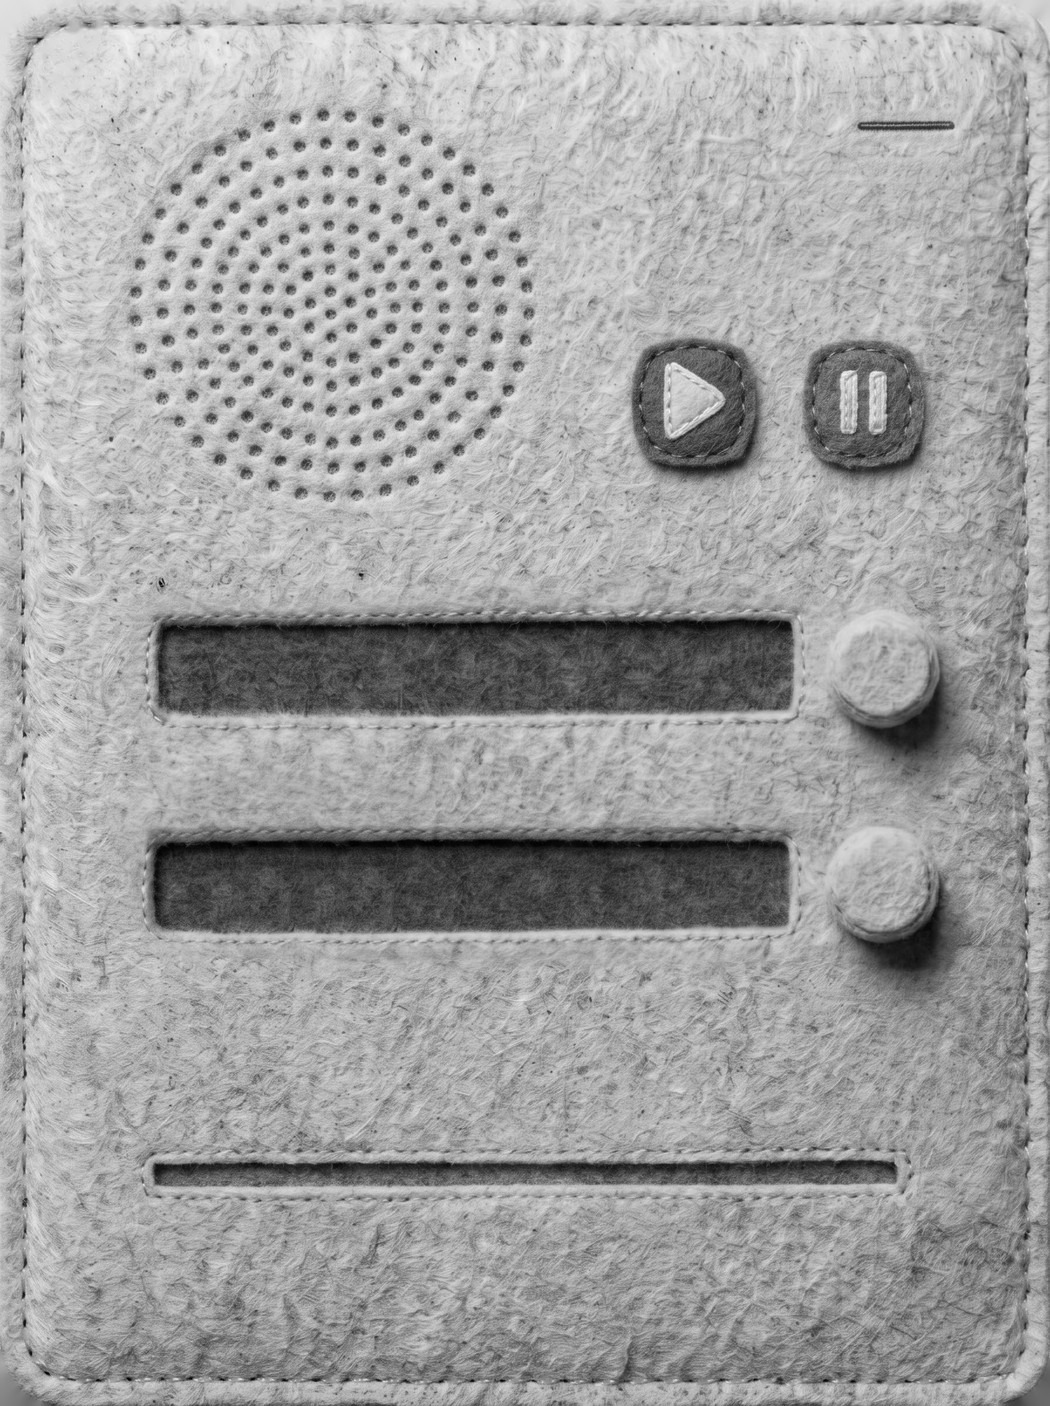
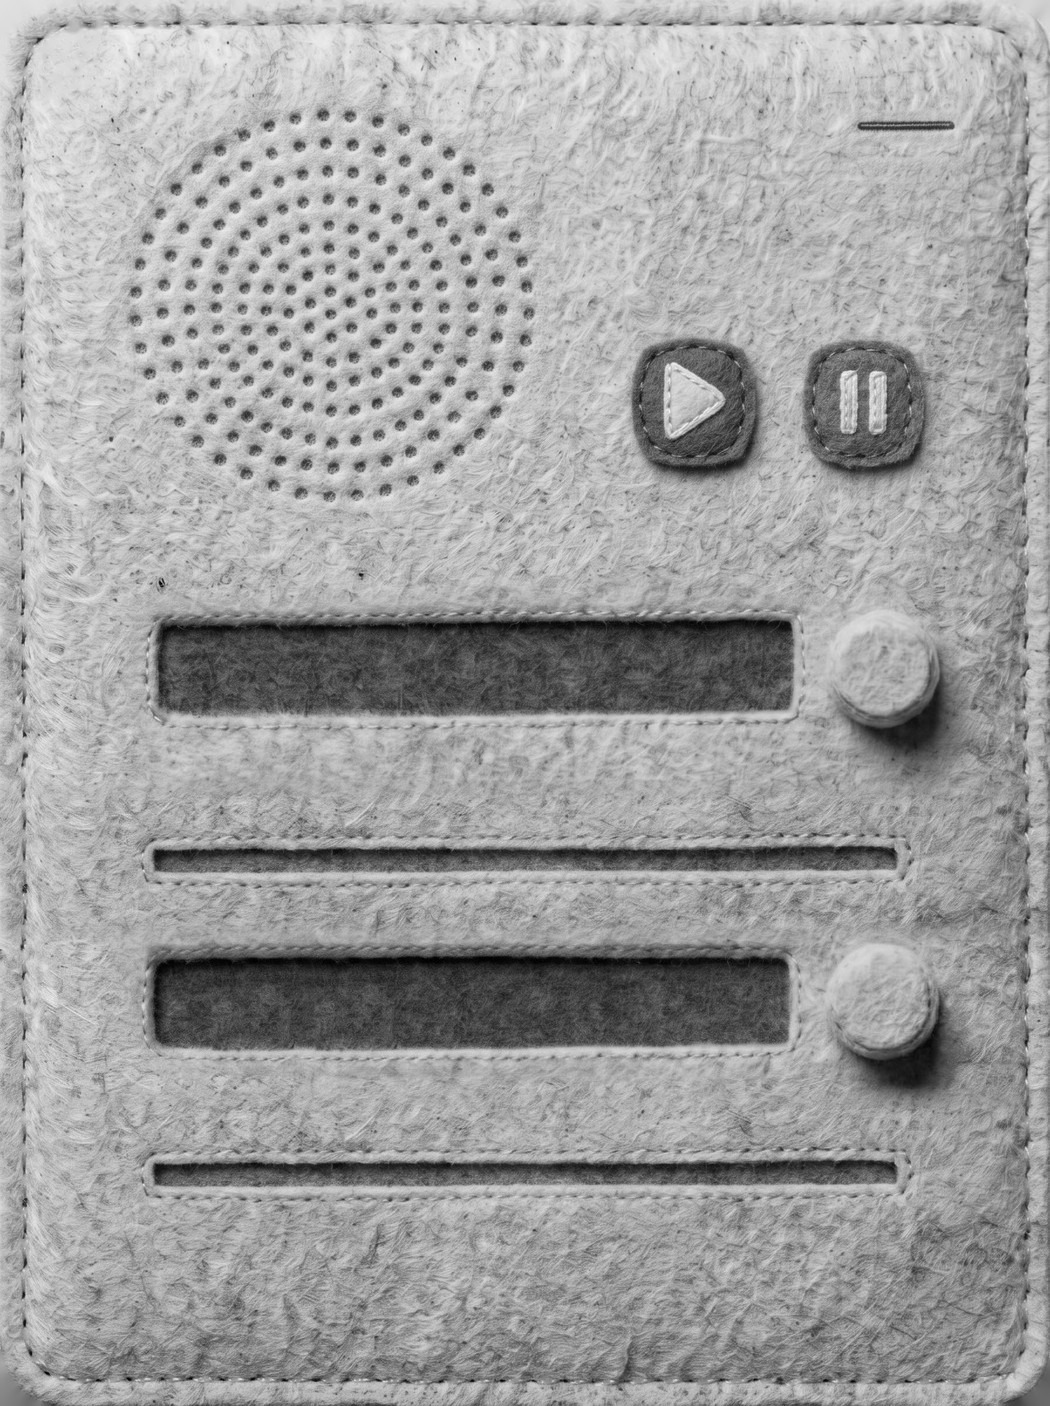
Audio Player: the sound gets its own volume slider under it; the music window and knob move down
Both felt pictures (day and night) rearranged; the sound channel has its own volume
(it follows the music's until its slider is moved).

Claude-Session: https://claude.ai/code/session_01NDsvQ4w6b4M39K7iEhCswz

Changed region(s): [[0.0, 0.5505, 1.0, 0.7952]]

diff --git a/src/components/TapePlayer.js b/src/components/TapePlayer.js
@@ -5,13 +5,14 @@
 //   the two windows: the sound (top) and the music (bottom); tap a knob to click through the choices, which
 //     show in white in the window ("Select sound" / "Select music" until one is chosen). The knobs stay still;
 //     only the line on each face turns a notch per click.
-//   the slider at the bottom: the volume (drag its felt knob, or tap the slot)
+//   two sliders: under the sound, the sound's volume; at the bottom, the music's (drag the felt knob, or tap the slot)
+//   (Jörg, 26 Oct 2026: the music window and knob moved down to make room for the sound's own slider)
 //   the felt line at the top right: closes the player (its only way out)
 // (recording your voice is on the reading bar's red button)
 import React, { useEffect, useRef, useState } from 'react';
 import { Animated, Image, PanResponder, Pressable, StyleSheet, Text, View, useWindowDimensions } from 'react-native';
 import { fonts } from '../theme';
-import { MUSIC, SOUNDS, TRACKS, getAmbient, onAmbient, pauseAmbient, playAmbient, setAmbientPlayer, setAmbientVolume, stepAmbient } from '../ambient';
+import { MUSIC, SOUNDS, TRACKS, getAmbient, onAmbient, pauseAmbient, playAmbient, setAmbientPlayer, setAmbientVolume, setSoundVolume, stepAmbient } from '../ambient';
 import { useT } from '../i18n';
 import { thunk, tick, withTap } from '../haptics';
 
@@ -37,6 +38,36 @@ const sizeFor = (winW, winH) => {
 const VMIN = 0.05;
 const X0 = 330, X1 = 1464, Y = 2003, THUMB_D = 194; // (the knob picture is 194 wide with its shadow, the knob itself 134)
 const SLOT = { x: 230, y: 1925, w: 1340, h: 160 }; // where a finger can take the slider
+const SOUND_DY = -535; // the sound's own slot: the same slot, 535 higher (under the sound's window)
+
+// a felt slider: tap the slot to jump there, drag the knob to slide (right is louder); it clicks softly every 5%
+function FeltSlider({ f, dy, value, onChange, thumb, label }) {
+  const fRef = useRef(f);
+  fRef.current = f;
+  const cb = useRef(onChange);
+  cb.current = onChange;
+  const q = useRef(null);
+  const send = (v) => { const n = Math.round(v * 20); if (q.current !== null && n !== q.current) tick(); q.current = n; cb.current(v); };
+  const x0 = useRef(0);
+  const at = (x) => VMIN + (1 - VMIN) * Math.max(0, Math.min(1, (x / fRef.current + SLOT.x - X0) / (X1 - X0)));
+  const pan = useRef(PanResponder.create({
+    onStartShouldSetPanResponder: () => true,
+    onPanResponderTerminationRequest: () => false,
+    onPanResponderGrant: (e) => { x0.current = e.nativeEvent.locationX; send(at(x0.current)); },
+    onPanResponderMove: (_, g) => send(at(x0.current + g.dx)),
+  })).current;
+  const v = Math.max(VMIN, Math.min(1, value));
+  const tx = X0 + (X1 - X0) * (v - VMIN) / (1 - VMIN);
+  const box = (x, y, w, h) => ({ position: 'absolute', left: x * f, top: y * f, width: w * f, height: h * f });
+  return (
+    <View {...pan.panHandlers} style={box(SLOT.x, SLOT.y + dy, SLOT.w, SLOT.h)} accessibilityRole="adjustable" accessibilityLabel={label}
+      accessibilityValue={{ min: 0, max: 100, now: Math.round(v * 100) }}
+      accessibilityActions={[{ name: 'increment' }, { name: 'decrement' }]}
+      onAccessibilityAction={(e) => onChange(v + (e.nativeEvent.actionName === 'increment' ? 0.1 : -0.1))}>
+      <Image pointerEvents="none" source={thumb} style={box(tx - SLOT.x - THUMB_D / 2, Y - SLOT.y - THUMB_D / 2 + 4, THUMB_D, THUMB_D)} />
+    </View>
+  );
+}
 
 export default function TapePlayer({ onMenu, area }) {
   const t = useT();
@@ -48,9 +79,6 @@ export default function TapePlayer({ onMenu, area }) {
   useEffect(() => onAmbient(setS), []);
   // it fades in with its dark layer
   const fade = useRef(new Animated.Value(0)).current;
-  // the volume knob clicks softly every 5%
-  const volQ = useRef(null);
-  const setVolTick = (v) => { const q = Math.round(v * 20); if (volQ.current !== null && q !== volQ.current) tick(); volQ.current = q; setAmbientVolume(v); };
   useEffect(() => { if (s.showPlayer) { fade.setValue(0); Animated.timing(fade, { toValue: 1, duration: 200, useNativeDriver: true }).start(); } }, [s.showPlayer]);
   // the knobs' lines turn a notch for every click (all the way round over the choices and "off")
   const notch = (list, id) => (list.findIndex((x) => x.id === id) + 1) * (300 / list.length);
@@ -58,22 +86,6 @@ export default function TapePlayer({ onMenu, area }) {
   const k2 = useRef(new Animated.Value(notch(MUSIC, s.music))).current;
   useEffect(() => { Animated.spring(k1, { toValue: notch(SOUNDS, s.sound), useNativeDriver: true, friction: 6 }).start(); }, [s.sound]);
   useEffect(() => { Animated.spring(k2, { toValue: notch(MUSIC, s.music), useNativeDriver: true, friction: 6 }).start(); }, [s.music]);
-  // the volume slider: tap the slot to jump there, drag the knob to slide (right is louder)
-  const fRef = useRef(f);
-  fRef.current = f;
-  const vx0 = useRef(0);
-  const volAt = (x) => { // x: from the left of the slider's touch area
-    const k = fRef.current;
-    return VMIN + (1 - VMIN) * Math.max(0, Math.min(1, (x / k + SLOT.x - X0) / (X1 - X0)));
-  };
-  const volSlide = useRef(PanResponder.create({
-    onStartShouldSetPanResponder: () => true,
-    onPanResponderTerminationRequest: () => false,
-    onPanResponderGrant: (e) => { vx0.current = e.nativeEvent.locationX; setVolTick(volAt(vx0.current)); },
-    onPanResponderMove: (_, g) => setVolTick(volAt(vx0.current + g.dx)),
-  })).current;
-  const vol = Math.max(VMIN, Math.min(1, s.volume));
-  const thumbX = X0 + (X1 - X0) * (vol - VMIN) / (1 - VMIN);
   const turn = (v) => ({ transform: [{ rotate: v.interpolate({ inputRange: [0, 360], outputRange: ['0deg', '360deg'] }) }] });
   if (!s.showPlayer) return null;
   const name = (id) => { const x = TRACKS.find((tr) => tr.id === id); return x ? (x.mine ? x.name : t(x.name)) : null; };
@@ -111,20 +123,16 @@ export default function TapePlayer({ onMenu, area }) {
         <Pressable onPress={withTap(pauseAmbient)} style={at(1360, 562, 230, 250)} accessibilityRole="button" accessibilityLabel={t('Pause')} />
         {/* (the night felt's windows sit a little lower; its names start a little further in) */}
         {windowText(s.night ? [282, 1070, 1082, 172] : [268, 1067, 1082, 150], name(s.sound) || t('Select sound'), !s.sound)}
-        {windowText(s.night ? [276, 1441, 1082, 174] : [268, 1437, 1076, 150], name(s.music) || t('Select music'), !s.music)}
+        {windowText(s.night ? [276, 1641, 1082, 174] : [268, 1637, 1076, 150], name(s.music) || t('Select music'), !s.music)}
         {/* the knobs stay put; tap one to click to the next choice */}
         <Pressable onPress={withTap(() => stepAmbient('sound'), thunk)} style={at(1386, 1010, 250, 260)} accessibilityRole="button" accessibilityLabel={name(s.sound) || t('Select sound')} />
-        <Pressable onPress={withTap(() => stepAmbient('music'), thunk)} style={at(1386, 1380, 250, 260)} accessibilityRole="button" accessibilityLabel={name(s.music) || t('Select music')} />
+        <Pressable onPress={withTap(() => stepAmbient('music'), thunk)} style={at(1386, 1580, 250, 260)} accessibilityRole="button" accessibilityLabel={name(s.music) || t('Select music')} />
         {/* the knobs' lines turn with each click (at night: on the brown felt's knobs, in cream) */}
         {s.night ? mark(1512, 1145, k1) : mark(1506, 1127, k1)}
-        {s.night ? mark(1512, 1507, k2) : mark(1506, 1500, k2)}
-        {/* the volume: the felt knob slides left (quieter) and right (louder) in the stitched slot */}
-        <View {...volSlide.panHandlers} style={at(SLOT.x, SLOT.y, SLOT.w, SLOT.h)} accessibilityRole="adjustable" accessibilityLabel={t('Volume')}
-          accessibilityValue={{ min: 0, max: 100, now: Math.round(vol * 100) }}
-          accessibilityActions={[{ name: 'increment' }, { name: 'decrement' }]}
-          onAccessibilityAction={(e) => setAmbientVolume(vol + (e.nativeEvent.actionName === 'increment' ? 0.1 : -0.1))}>
-          <Image pointerEvents="none" source={s.night ? THUMB_NIGHT : THUMB} style={at(thumbX - SLOT.x - THUMB_D / 2, Y - SLOT.y - THUMB_D / 2 + 4, THUMB_D, THUMB_D)} />
-        </View>
+        {s.night ? mark(1512, 1707, k2) : mark(1506, 1700, k2)}
+        {/* the volumes: the sound's under its window, the music's at the bottom (felt knobs in stitched slots) */}
+        <FeltSlider f={f} dy={SOUND_DY} value={s.soundVolume != null ? s.soundVolume : s.volume} onChange={setSoundVolume} thumb={s.night ? THUMB_NIGHT : THUMB} label={t('Sound volume')} />
+        <FeltSlider f={f} dy={0} value={s.volume} onChange={setAmbientVolume} thumb={s.night ? THUMB_NIGHT : THUMB} label={t('Music volume')} />
       </View>
     </View>
     {/* a small Close under the player's bottom right corner (day and night), floating: the player stays centred */}

diff --git a/src/ambient.js b/src/ambient.js
@@ -30,12 +30,12 @@ export const SLEEP_TIMES = [0, 15, 30, 60]; // minutes (0: keep playing)
 // sound / music: the chosen one on each channel (null: off); playing: sounding now; volume 0..1;
 // showPlayer: the floating tape player; sleep: minutes until it fades out; pos: where the player was left;
 // recording: a voice is being recorded (the player's little red light)
-let state = { sound: null, music: null, playing: false, volume: 0.4, rate: 1, showPlayer: false, sleep: 0, sleepAt: null, pos: null, recording: false };
+let state = { sound: null, music: null, playing: false, volume: 0.4, soundVolume: null, rate: 1, showPlayer: false, sleep: 0, sleepAt: null, pos: null, recording: false };
 const listeners = new Set();
 const set = (patch) => {
   state = { ...state, ...patch };
   listeners.forEach((fn) => { try { fn(state); } catch (e) {} });
-  saveJSON('ambient2', { sound: state.sound, music: state.music, volume: state.volume, rate: state.rate, showPlayer: state.showPlayer, pos: state.pos }).catch(() => {});
+  saveJSON('ambient2', { sound: state.sound, music: state.music, volume: state.volume, soundVolume: state.soundVolume, rate: state.rate, showPlayer: state.showPlayer, pos: state.pos }).catch(() => {});
 };
 export const getAmbient = () => state;
 export function onAmbient(fn) { listeners.add(fn); return () => listeners.delete(fn); }
@@ -47,6 +47,10 @@ loadJSON('ambient2', null).then((s) => {
   if (state.sound && !String(state.sound).startsWith('my-') && !TRACKS.some((x) => x.id === state.sound)) state.sound = null; // (the family's own sounds load a moment later)
   if (state.music && !String(state.music).startsWith('my-') && !TRACKS.some((x) => x.id === state.music)) state.music = null; // (the family's own music loads a moment later)
   listeners.forEach((fn) => fn(state)); }).catch(() => {});
+
+// each channel's own volume (Jörg, 26 Oct 2026): the music's is the bottom slider, the sound's the one under the sound
+// (until it's been moved, the sound plays at the music's volume, as before)
+const volFor = (kind) => (kind === 'sound' && state.soundVolume != null ? state.soundVolume : state.volume);
 
 // one player per channel
 const ch = { sound: { player: null, id: null, fade: null }, music: { player: null, id: null, fade: null } };
@@ -71,10 +75,10 @@ async function sync(kind) {
   const my = (c.seq = (c.seq || 0) + 1); // quick taps: only the latest call counts (no doubled or stuttering sound)
   const want = state.playing && !held ? state[kind] : null;
   if (!want) {
-    if (c.player) { const p = c.player; ramp(c, state.volume, 0, 500, () => { try { p.pause(); } catch (e) {} if (c.player === p && !(state.playing && state[kind])) release(c); }); }
+    if (c.player) { const p = c.player; ramp(c, volFor(kind), 0, 500, () => { try { p.pause(); } catch (e) {} if (c.player === p && !(state.playing && state[kind])) release(c); }); }
     return;
   }
-  if (c.id === want && c.player) { try { c.player.play(); ramp(c, 0, state.volume, 800); } catch (e) {} return; }
+  if (c.id === want && c.player) { try { c.player.play(); ramp(c, 0, volFor(kind), 800); } catch (e) {} return; }
   const t = TRACKS.find((x) => x.id === want);
   if (!t) return;
   try {
@@ -88,7 +92,7 @@ async function sync(kind) {
     p.volume = 0;
     applyRate(p);
     p.play();
-    ramp(c, 0, state.volume, 1200); // fades in
+    ramp(c, 0, volFor(kind), 1200); // fades in
     // a freshly made player may not be ready yet, and then the first play() does nothing (it used to take a
     // second tap): play again as soon as it has loaded, and check once more shortly after
     const still = () => c.player === p && state.playing && !held && state[kind] === want;
@@ -117,7 +121,7 @@ export function toggleAmbient() { if (state.playing) pauseAmbient(); else playAm
 // bedtime: the music fades away slowly and stops (after the last book in Listen Only)
 export function fadeOutAmbient(ms = 20000) {
   if (!state.playing) return;
-  for (const c of Object.values(ch)) { const p = c.player; ramp(c, state.volume, 0, ms, () => { try { p && p.pause(); } catch (e) {} }); }
+  for (const [kind, c] of Object.entries(ch)) { const p = c.player; ramp(c, volFor(kind), 0, ms, () => { try { p && p.pause(); } catch (e) {} }); }
   setTimeout(() => set({ playing: false }), ms);
 }
 export function stopAmbient() { set({ playing: false, sound: null, music: null }); clearTimeout(sleepTimer); syncAll(); }
@@ -140,10 +144,15 @@ export function setAmbientRate(r) {
   set({ rate: Math.max(0.5, Math.min(1, Math.round(r * 100) / 100)) });
   for (const c of Object.values(ch)) applyRate(c.player);
 }
-export function setAmbientVolume(v) {
+export function setAmbientVolume(v) { // the music (and the sound too, until its own slider has been moved)
   const vol = Math.max(0, Math.min(1, v));
   set({ volume: vol });
-  for (const c of Object.values(ch)) try { if (c.player && !c.fade) c.player.volume = vol; } catch (e) {}
+  for (const [kind, c] of Object.entries(ch)) try { if (c.player && !c.fade) c.player.volume = volFor(kind); } catch (e) {}
+}
+export function setSoundVolume(v) { // the sound's own slider
+  const vol = Math.max(0, Math.min(1, v));
+  set({ soundVolume: vol });
+  try { if (ch.sound.player && !ch.sound.fade) ch.sound.player.volume = vol; } catch (e) {}
 }
 // the family's own music (added on the Music and Sounds page): it joins the list like any other piece
 export function addTrack(tr) {
@@ -166,7 +175,7 @@ function armSleep(min) {
   if (!min || !state.playing) { if (state.sleepAt) set({ sleepAt: null }); return; }
   set({ sleepAt: Date.now() + min * 60000 });
   sleepTimer = setTimeout(() => {
-    for (const c of Object.values(ch)) { const p = c.player; ramp(c, state.volume, 0, 20000, () => { try { p && p.pause(); } catch (e) {} }); }
+    for (const [kind, c] of Object.entries(ch)) { const p = c.player; ramp(c, volFor(kind), 0, 20000, () => { try { p && p.pause(); } catch (e) {} }); }
     setTimeout(() => set({ playing: false, sleepAt: null }), 20000);
   }, min * 60000);
 }

diff --git a/src/i18n.js b/src/i18n.js
@@ -323,6 +323,8 @@ const T = {
   "Everyone can have their own profile, children and grown-ups, with their own notebook, badges, playlists and settings.": { de: "Jeder kann ein eigenes Profil haben, Kinder und Erwachsene, mit eigenem Notizbuch, eigenen Abzeichen, Playlists und Einstellungen.", fr: "Chacun peut avoir son profil, enfants et adultes, avec son carnet, ses badges, ses listes et ses réglages.", es: "Cada uno puede tener su perfil, niños y adultos, con su cuaderno, sus insignias, sus listas y sus ajustes.", ja: "こどもも おとなも、じぶんの プロフィールが もてます。ノート、バッジ、プレイリスト、せっていも べつべつです。", ar: "يمكن لكل شخص أن يكون له ملفه الشخصي، أطفالًا وكبارًا، مع دفتره وأوسمته وقوائم تشغيله وإعداداته." },
   "AI and authenticity": { de: "KI und Echtheit", fr: "IA et authenticité", es: "IA y autenticidad", ja: "AI と ほんもの", ar: "الذكاء الاصطناعي والأصالة" },
   'Process': { de: 'Entstehung', fr: 'Processus', es: 'Proceso', ja: 'せいさくの ようす', ar: "طريقة الصنع" },
+  'Sound volume': { de: 'Lautstärke der Klänge', fr: 'Volume des sons', es: 'Volumen de los sonidos', ja: 'おとの おおきさ', ar: "مستوى صوت الأصوات" },
+  'Music volume': { de: 'Lautstärke der Musik', fr: 'Volume de la musique', es: 'Volumen de la música', ja: 'おんがくの おおきさ', ar: "مستوى صوت الموسيقى" },
   'Visit the Ideas Room': { de: 'Ins Ideenzimmer', fr: 'Entrer dans la salle des idées', es: 'Ir a la sala de ideas', ja: 'アイデアのへやへ', ar: "زر غرفة الأفكار" },
   'Many ideas for books you can make together: your photos and drawings, your words, your voice.': { de: 'Viele Ideen für Bücher, die ihr zusammen machen könnt: eure Fotos und Zeichnungen, eure Worte, eure Stimme.', fr: 'Plein d’idées de livres à faire ensemble : vos photos et dessins, vos mots, votre voix.', es: 'Muchas ideas de libros para hacer juntos: tus fotos y dibujos, tus palabras, tu voz.', ja: 'いっしょに つくれる 本の アイデアが たくさん：しゃしんや え、ことば、そして あなたの こえで。', ar: "أفكار كثيرة لكتب تصنعونها معًا: صوركم ورسوماتكم، وكلماتكم، وأصواتكم." },
   'Make a story': { de: 'Geschichte machen', fr: 'Créer un livre', es: 'Hacer un cuento', ja: 'えほんを つくる', ar: "اصنع قصة" },
